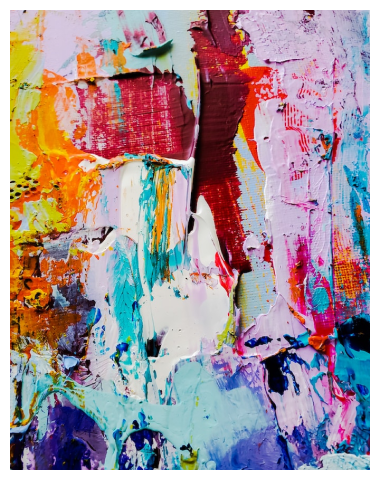
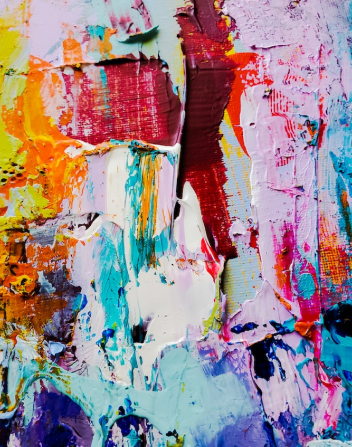
optimized images

diff --git a/components/Footer.jsx b/components/Footer.jsx
@@ -2,8 +2,15 @@ import React from "react";
 import styles from "../styles/Home/Footer.module.css";
 import Logo from "./Logo";
 import { FaFacebookSquare } from "react-icons/fa";
-import { BsTwitter, BsVimeo, BsYoutube } from "react-icons/bs";
+import { BsYoutube, BsPinterest } from "react-icons/bs";
+import { RiInstagramFill } from "react-icons/ri";
 import Link from "next/link";
+import {
+  facebookLink,
+  instagramLink,
+  pinterestLink,
+  youtubeLink,
+} from "../constants/ social_links";
 
 const Footer = () => {
   return (
@@ -24,16 +31,16 @@ const Footer = () => {
           </Link>
         </div>
         <div className={styles.social_links}>
-          <a href="">
+          <a href={pinterestLink} target="_blank">
+            <BsPinterest />
+          </a>
+          <a href={instagramLink} target="_blank">
+            <RiInstagramFill />
+          </a>
+          <a href={facebookLink} target="_blank">
             <FaFacebookSquare />
           </a>
-          <a href="">
-            <BsTwitter />
-          </a>
-          <a href="">
-            <BsVimeo />
-          </a>
-          <a href="">
+          <a href={youtubeLink} target="_blank">
             <BsYoutube />
           </a>
         </div>

diff --git a/containers/Home/Hero.jsx b/containers/Home/Hero.jsx
@@ -1,5 +1,8 @@
+import Image from "next/image";
+import Link from "next/link";
 import React from "react";
 import styles from "../../styles/Home/Hero.module.css";
+import HeroImg from "../../public/hero_img.png";
 
 const Hero = () => {
   return (
@@ -11,11 +14,15 @@ const Hero = () => {
             Latest Painting <br /> Collection
           </h1>
           <p>Lorem ipsem dolor amet. Countascular adiscing lipot</p>
-          <button className={styles.shop_button}>Shop now</button>
+          <Link href="/products">
+            <button className={styles.shop_button}>Shop now</button>
+          </Link>
         </div>
       </div>
       <div className={styles.hero_img}>
-        <img src="/hero_img.png" alt="Flowers" />
+        {/* <img src="/hero_img.png" alt="Flowers" /> */}
+        <Image src="/hero_img.png" layout="fill" objectFit="cover" priority />
+        <img src={HeroImg} alt="" />
       </div>
     </div>
   );

diff --git a/components/Post.jsx b/components/Post.jsx
@@ -1,13 +1,16 @@
 import Link from "next/link";
 import React from "react";
 import styles from "../styles/Post.module.css";
+import Image from "next/image";
 
 const Post = ({ imgSrc, title, price, desc, id, style }) => {
   return (
-    <Link href="/">
+    <Link href={`/products/${id}`}>
       <div className={styles.container} style={style}>
         <div className={styles.art_container}>
-          <img className={styles.art} src={imgSrc} alt={desc} />
+          <div className={styles.art}>
+            <Image src={imgSrc} alt={desc} layout="fill" objectFit="cover" />
+          </div>
         </div>
         <div className={styles.sub_container}>
           <p className={styles.subtitle}>{title}</p>

diff --git a/containers/Home/About.jsx b/containers/Home/About.jsx
@@ -1,3 +1,4 @@
+import Image from "next/image";
 import React from "react";
 import styles from "../../styles/Home/About.module.css";
 
@@ -5,7 +6,15 @@ const About = () => {
   return (
     <div className={styles.container}>
       <div className={styles.aboutImg_container}>
-        <img src="/about.png" alt="art-piece" className={styles.aboutImg} />
+        {/* <img src="/about.png" alt="art-piece"  /> */}
+        <div className={styles.aboutImg}>
+          <Image
+            src="/about.png"
+            alt="art-piece"
+            layout="fill"
+            objectFit="contain"
+          />
+        </div>
       </div>
       <div className={styles.about_text}>
         <h6>About</h6>

diff --git a/components/CtaImage.jsx b/components/CtaImage.jsx
@@ -1,10 +1,12 @@
 import React from "react";
 import styles from "../styles/Home/CtaImage.module.css";
+import Image from "next/image";
 const CtaImage = ({ imgSrc }) => {
   return (
     <div className={styles.container}>
-      <div>
-        <img src={imgSrc} alt="" />
+      <div className={styles.img_container}>
+        {/* <img src={imgSrc} alt="" /> */}
+        <Image src={imgSrc} layout="fill" />
       </div>
       <p className={styles.subtext}>Oil paint</p>
     </div>

diff --git a/styles/Home/CtaImage.module.css b/styles/Home/CtaImage.module.css
@@ -2,6 +2,8 @@
   width: clamp(10rem, 10vw, 15rem);
   display: inline-flex;
   flex-direction: column;
+  align-items: center;
+  justify-content: space-around;
   gap:1.3rem;
   margin: 2rem;
 }
@@ -10,4 +12,10 @@
   text-align: center;
   font-size: 20px;
   font-weight: var(--weight-normal);
+}
+
+.img_container {
+  position: relative;
+  width: 180px;
+  aspect-ratio: 0.8;
 }

diff --git a/styles/Post.module.css b/styles/Post.module.css
@@ -11,13 +11,18 @@
 }
 
 .art_container {
+  height: auto;
+  background-color: white !important;
   border: 10px black solid;
+  padding: 10px;
   margin-bottom: 1rem;
 }
 
 .art {
-  object-fit: contain;
+  position: relative;
   width: 100%;
+  /* height: 350px; */
+  aspect-ratio: 0.8;
 }
 
 

diff --git a/constants/ social_links.js b/constants/ social_links.js
@@ -1,0 +1,4 @@
+export const facebookLink = "https://www.facebook.com/";
+export const pinterestLink = "https://www.pinterest.com/";
+export const youtubeLink = "https://www.youtube.com/";
+export const instagramLink = "https://www.instagram.com/";

diff --git a/styles/Home/About.module.css b/styles/Home/About.module.css
@@ -41,8 +41,9 @@
   line-height: 2.3;
 }
 .aboutImg {
-  max-height: 100%;
-  object-fit: contain;
+  position: relative;
+  width: 800px;
+  aspect-ratio: 1.25;
 }
 
 .aboutImg_container {

diff --git a/styles/Home/Hero.module.css b/styles/Home/Hero.module.css
@@ -55,6 +55,9 @@
 
 .hero_img {
   width: 50%;
+  aspect-ratio: 0.96;
+  /* height: clamp(700px, 100vh, 1080px); */
+  position: relative;
 }
 
 @media only screen and (max-width: 1100px) {

diff --git a/styles/globals.css b/styles/globals.css
@@ -25,9 +25,7 @@
 	background-color: transparent;
 }
 
-img {
-	width: 100%;
-}
+
 
 html, body, div, span, applet, object, iframe,
 h1, h2, h3, h4, h5, h6, p, blockquote, pre,
